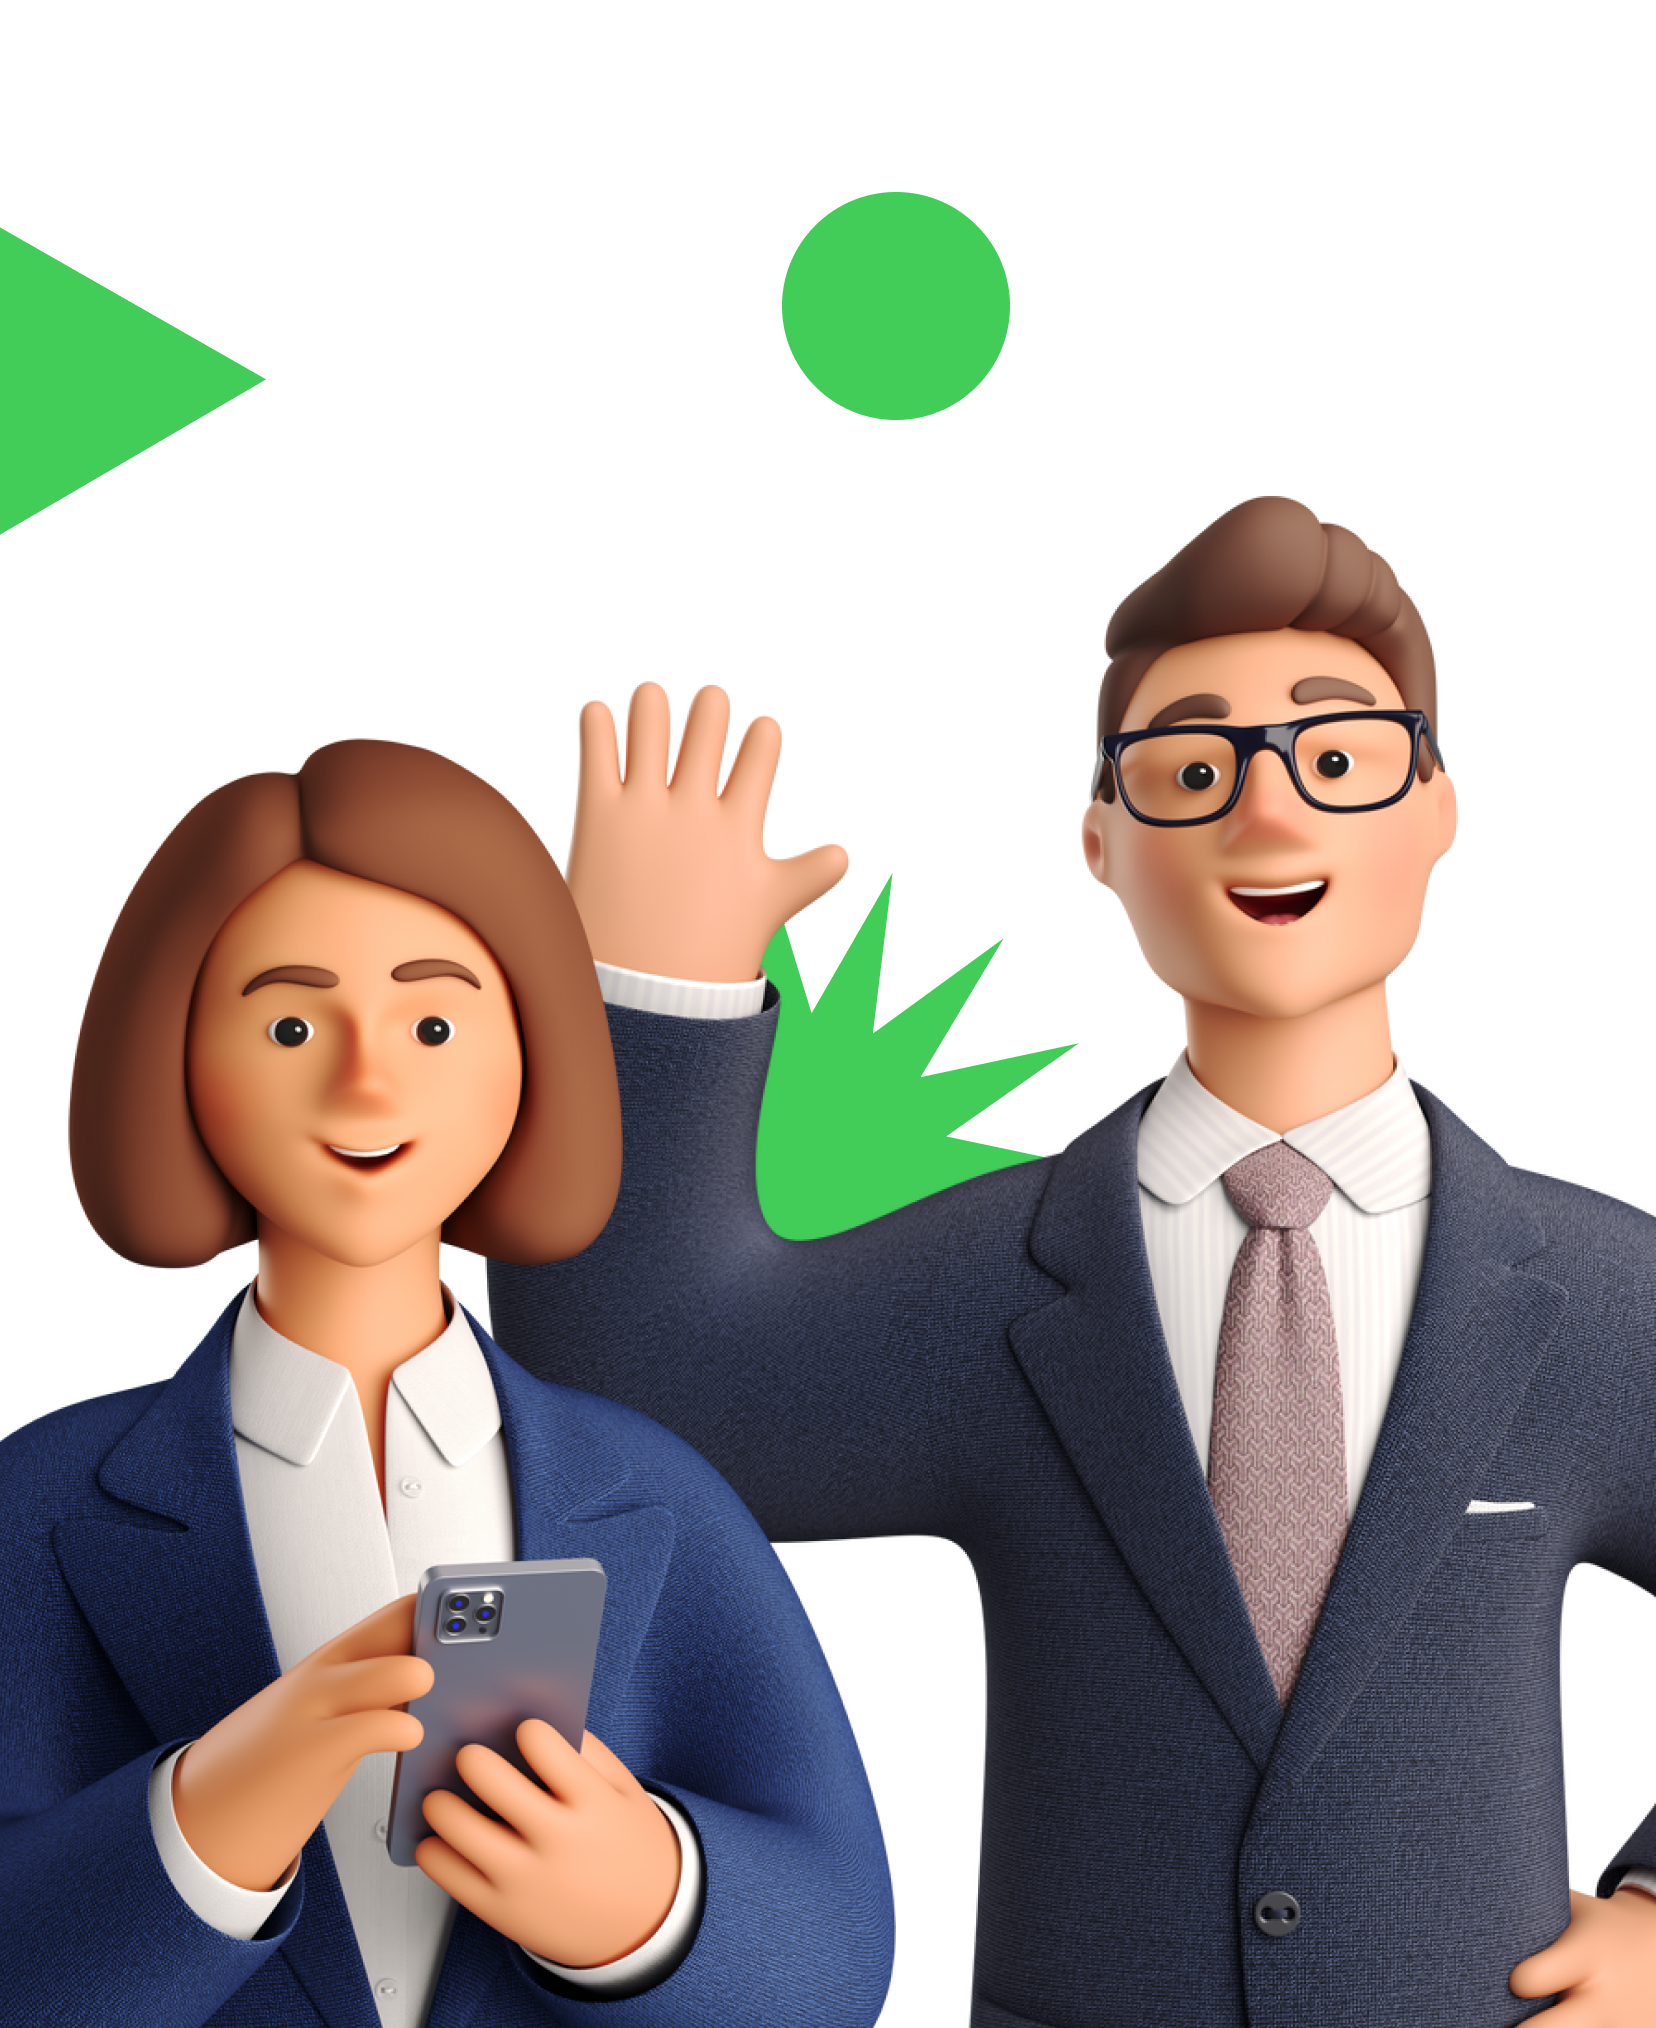
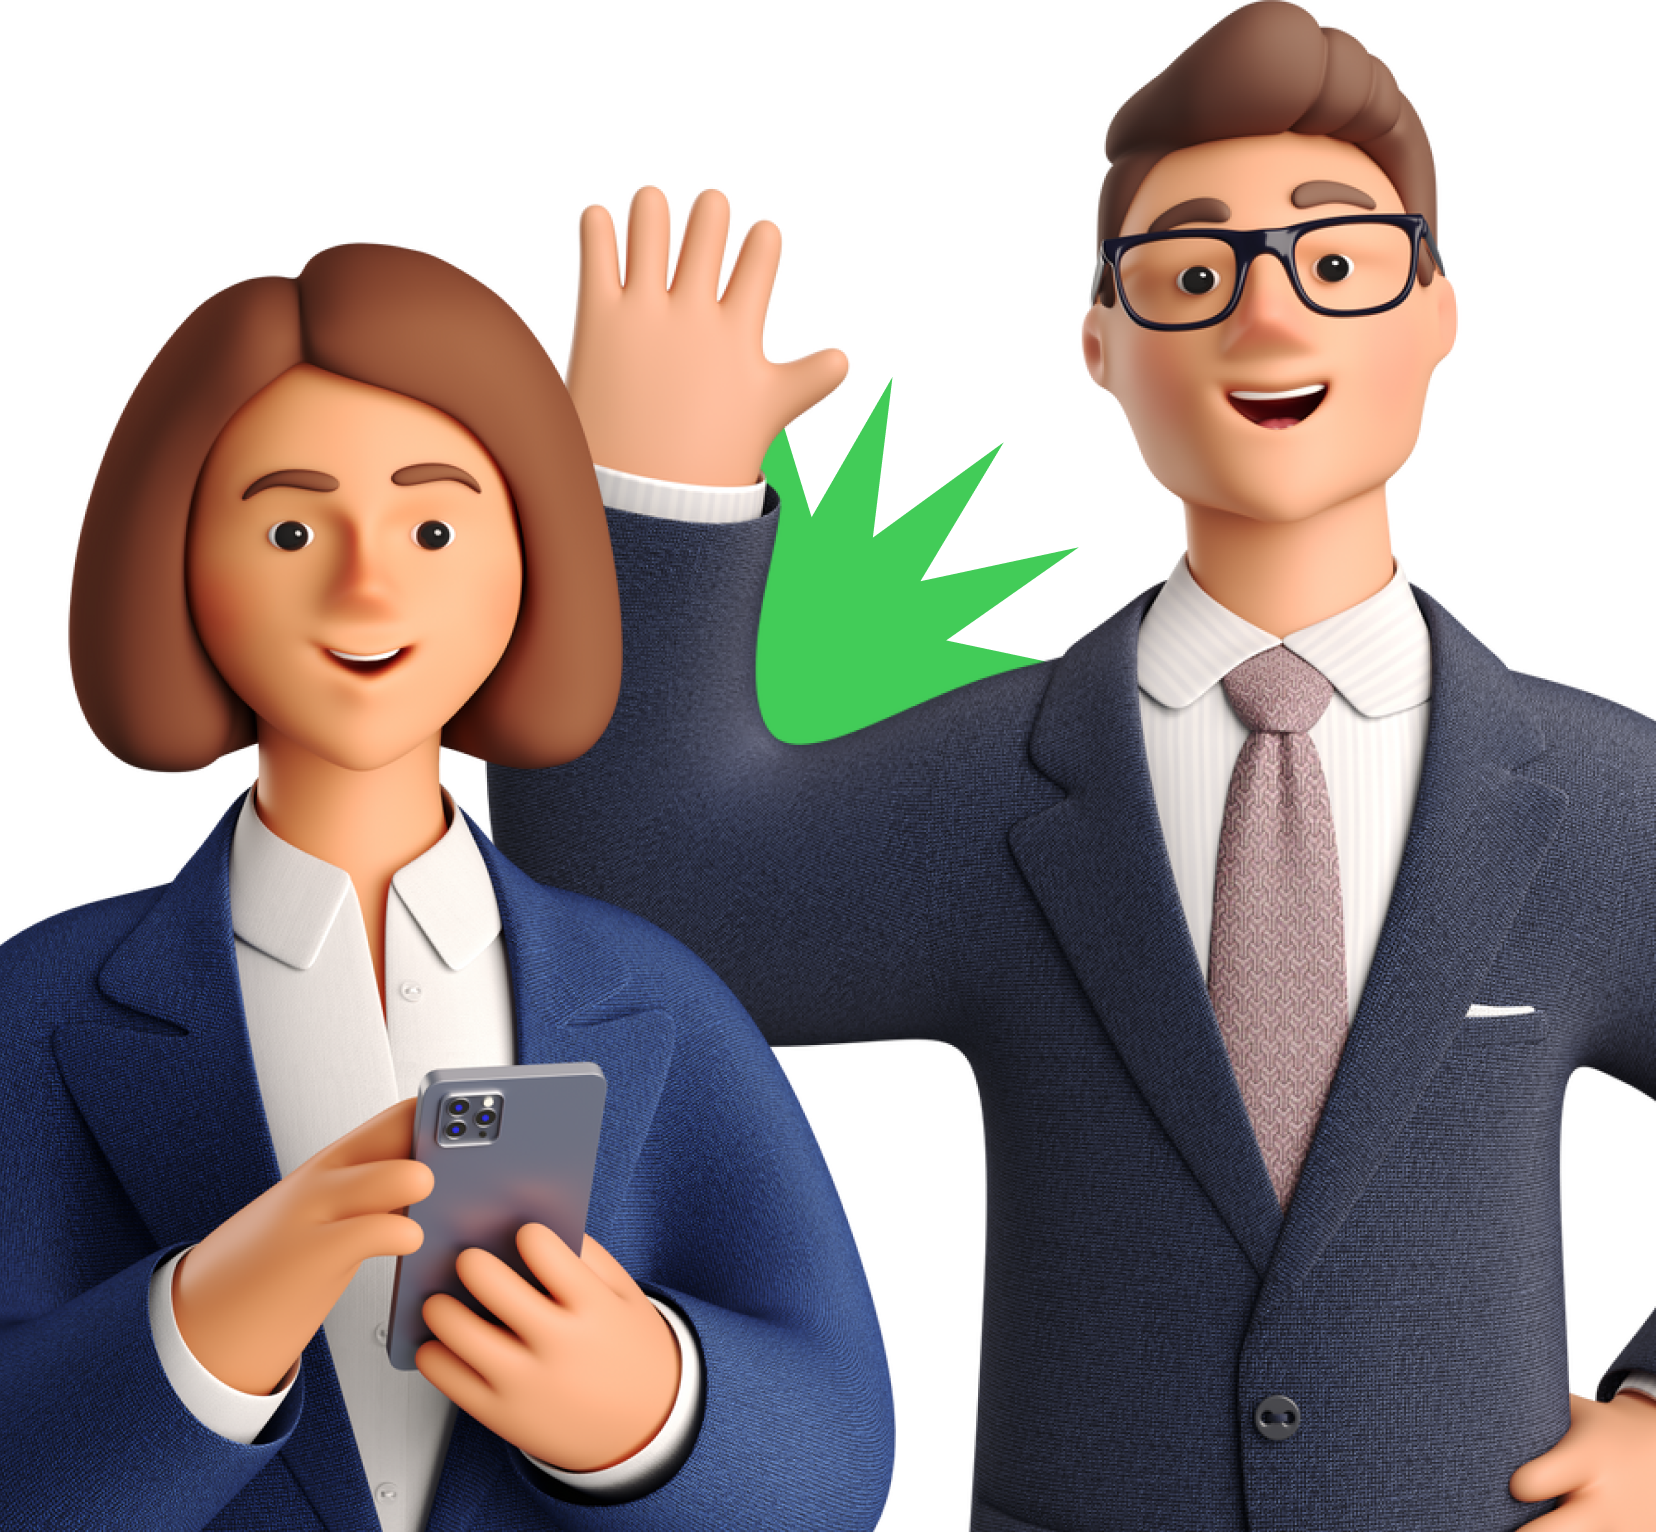
add button to screen

diff --git a/src/components/screens/Screen17.jsx b/src/components/screens/Screen17.jsx
@@ -7,25 +7,69 @@ import { TextBold } from '../common/Text';
 import { QuestionNumber } from '../common/QuestionNumber';
 import { ImageStyled, ImageWrapper } from '../common/Image';
 import { peoplePhone } from '../../constants/images';
+import { Button } from '../common/Button';
+import { Circle } from '../common/Circle';
+import { Triangle } from '../svg/Triangle';
 
 const TextStyled = styled(TextBold)`
     margin-top: 36px;
-    
+    margin-bottom: 30px;
     @media screen and (max-width: 330px){
         margin-top: 20px;
     }
 `;
 
-const ImageWrapperStyled = styled(ImageWrapper)`
-    height: auto;
-    max-height: 73%;
+const CircleStyled = styled(Circle)`
+    background: #42CC58;
+    right: 8%;
+    top: 12%;
+    width: 63px;
+    height: 63px;
+    
+    @media screen and (max-width: 365px){
+        top: 5%;
+    }
+    @media screen and (max-width: 330px){
+        top: 2.5%;
+        right: 20px;
+    }
+    @media screen and (min-width: 640px){
+      right: 15px;
+      top: 60px;
+    }
+`;
+
+const TriangleStyled = styled(Triangle)`
+    transform: rotate(-150deg);
+    position: absolute;
+    right: -95px;
+    top: 170px;
+    width: 142px;
+    height: 165px;
     
     @media screen and (max-height: 700px){
-        max-height: 68%;
+       top: 150px;
+    }
+    
+    @media screen and (min-width: 640px){
+      top: 220px;
+    }
+`;
+
+const ImageWrapperStyled = styled(ImageWrapper)`
+    height: auto;
+    max-height: 58%;
+    
+    @media screen and (max-height: 700px){
+        max-height: 46%;
+    }
+    
+    @media screen and (max-height: 500px){
+        max-height: 38%;
     }
     
     @media screen and (min-width: 640px) and (max-height: 655px){
-        max-height: 58%;
+        max-height: 38%;
     }
 `
 
@@ -37,7 +81,10 @@ export function Screen17() {
     return (
         <ScreenWrapper onClick={next}>
             <QuestionNumber number={questionNumber} />
+            <CircleStyled/>
+            <TriangleStyled fill={'#42CC58'}/>
             <TextStyled>{text}</TextStyled>
+            <Button onClick={next}>Продолжить</Button>
             <ImageWrapperStyled>
                 <ImageStyled src={peoplePhone} alt={''} />
             </ImageWrapperStyled>

diff --git a/src/components/svg/Triangle.jsx b/src/components/svg/Triangle.jsx
@@ -1,9 +1,10 @@
 import React from "react";
 
 export const Triangle = (props) => {
+    const {fill = 'white', ...restProps} = props;
     return (
-        <svg {...props} viewBox="0 0 550 478" fill="none" xmlns="http://www.w3.org/2000/svg">
-            <path d="M3.60779 5.64518L546.845 1.53972L278.782 474.05L3.60779 5.64518Z" fill="white" stroke="white" strokeWidth="3"/>
+        <svg {...restProps} viewBox="0 0 550 478" fill="none" xmlns="http://www.w3.org/2000/svg">
+            <path d="M3.60779 5.64518L546.845 1.53972L278.782 474.05L3.60779 5.64518Z" fill={fill} stroke="white" strokeWidth="7"/>
         </svg>
 
     )

diff --git a/src/components/screens/Screen14.jsx b/src/components/screens/Screen14.jsx
@@ -10,6 +10,10 @@ import { useProgress } from '../../hooks/useProgress';
 
 const ImageWrapperStyled = styled(ImageWrapper)`
     height: 25%;
+    
+    @media screen and (min-width: 640px) and (max-height: 750px){
+        height: 23%;
+    }
 `;
 
 const Image = styled(ImageStyled)`
